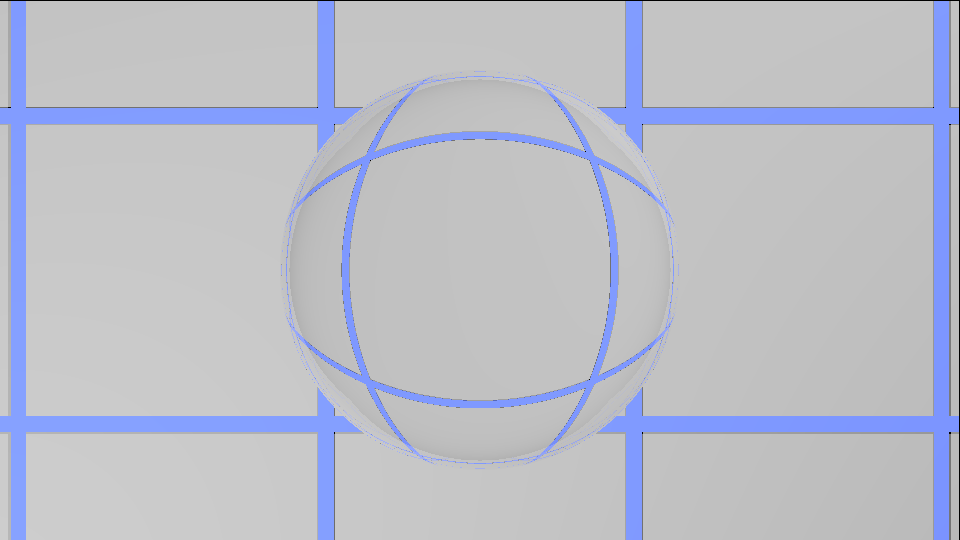
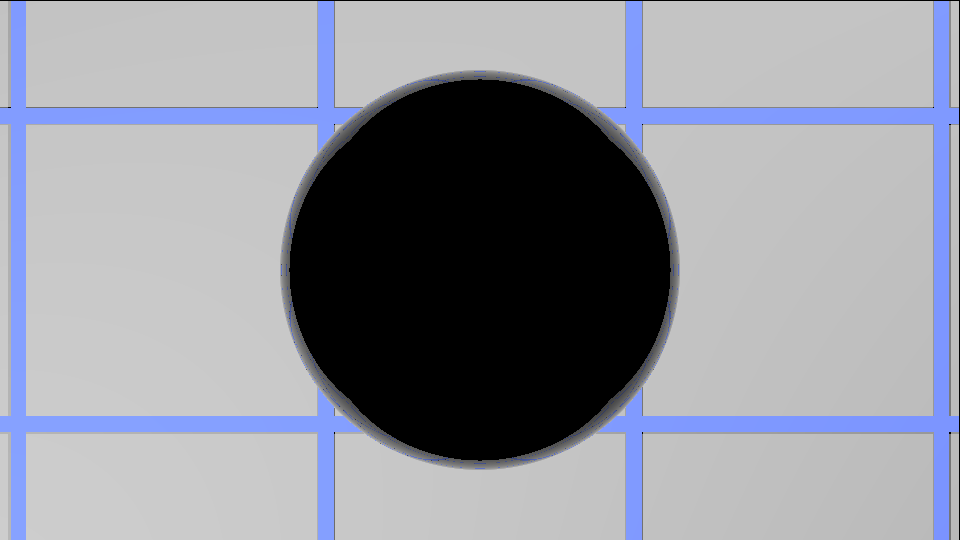
Added fixed cylinder/sphere code

Changed region(s): [[0.2812, 0.1185, 0.7188, 0.8889]]

diff --git a/ray/surface/Cylinder.java b/ray/surface/Cylinder.java
@@ -33,81 +33,81 @@ public class Cylinder extends Surface {
 	 * @return true if the surface intersects the ray
 	 */
 	public boolean intersect(IntersectionRecord outRecord, Ray rayIn) {
-        boolean inters = false;
-        double tw = Double.POSITIVE_INFINITY; // t value for intersection with cylinder wall
-        double te = Double.POSITIVE_INFINITY; // t value for intersection with end caps
-        Point3 q = new Point3(); // intersection point
+		 boolean inters = false;
+	        double tw = Double.POSITIVE_INFINITY; // t value for intersection with cylinder wall
+	        double te = Double.POSITIVE_INFINITY; // t value for intersection with end caps
+	        Point3 q = new Point3(); // intersection point
 
-        // compute ray-cylinder intersection
-        // same as for sphere, except, set all z components to 0
-        Vector3 d = new Vector3(rayIn.direction);
-        Vector3 ec = new Vector3();
-        ec.sub(rayIn.origin, center); // e-c
+	        // compute ray-cylinder intersection
+	        // same as for sphere, except, set all z components to 0
+	        Vector3 d = new Vector3(rayIn.direction);
+	        Vector3 ec = new Vector3();
+	        ec.sub(rayIn.origin, center); // e-c
 
-        // before setting the z components to 0, save for later
-        double dz = d.z;
-        double ecz = ec.z;
-        d.z = 0;
-        ec.z = 0;
+	        // before setting the z components to 0, save for later
+	        double dz = d.z;
+	        double ecz = ec.z;
+	        d.z = 0;
+	        ec.z = 0;
 
-        // the parameters of the quadratic equation A*t^2 + B*t + C = 0:
-        double A = d.dot(d);
-        double B = 2 * d.dot(ec);
-        double C = ec.dot(ec) - radius * radius;
+	        // the parameters of the quadratic equation A*t^2 + B*t + C = 0:
+	        double A = d.dot(d);
+	        double B = 2 * d.dot(ec);
+	        double C = ec.dot(ec) - radius * radius;
 
-        double discr = B*B - 4*A*C;
-        if (discr >= 0.0) { // intersection with cylinder wall
-            double s = Math.sqrt(discr);
-            double t1 = (-B + s) / (2 * A);
-            double t2 = (-B - s) / (2 * A);
-            double t = Double.POSITIVE_INFINITY;
-            if (t1 >= rayIn.start && t1 < t)
-                t = t1;
-            if (t2 >= rayIn.start && t2 < t)
-                t = t2;
-            if (t >= rayIn.start &&  t <= rayIn.end && t < Double.POSITIVE_INFINITY) {
-                rayIn.evaluate(q, t); // intersection point
-                if (Math.abs(q.z - center.z) <= height/2) {  // sidewall of cylinder
-                    inters = true;
-                    tw = t;
-                }
-            }
-        }
+	        double discr = B*B - 4*A*C;
+	        if (discr >= 0.0) { // intersection with cylinder wall
+	            double s = Math.sqrt(discr);
+	            double t1 = (-B + s) / (2 * A);
+	            double t2 = (-B - s) / (2 * A);
+	            double t = Double.POSITIVE_INFINITY;
+	            if (t1 >= rayIn.start && t1 < t)
+	                t = t1;
+	            if (t2 >= rayIn.start && t2 < t)
+	                t = t2;
+	            if (t >= rayIn.start &&  t <= rayIn.end && t < Double.POSITIVE_INFINITY) {
+	                rayIn.evaluate(q, t); // intersection point
+	                if (Math.abs(q.z - center.z) <= height/2) {  // sidewall of cylinder
+	                    inters = true;
+	                    tw = t;
+	                }
+	            }
+	        }
 
-        // check intersection with endcaps
+	        // check intersection with endcaps
 
-        // e.z + t * d.z == center.z +/- height/2;
-        // t = (center.z - e.z +/- height/2) / d.z;
-        double te1 = (-ecz - height/2) / dz;
-        double te2 = (-ecz + height/2) / dz;
-        double tem = Math.min(te1, te2);
-        double dir = (te1 < te2) ? -1.0 : 1.0; // whether top or bottom end
-        rayIn.evaluate(q, tem);  // intersection location with endcap
-        Vector3 rad = new Vector3();
-        rad.sub(center, q); // compute radius vector
-        rad.z = 0;          // in x-y plane
-        if (rad.dot(rad) <= radius*radius) { // intersection with end cap
-            if (tem >= rayIn.start &&  tem <= rayIn.end) {
-                inters = true;
-                te = tem;
-            }
-        }
+	        // e.z + t * d.z == center.z +/- height/2;
+	        // t = (center.z - e.z +/- height/2) / d.z;
+	        double te1 = (-ecz - height/2) / dz;
+	        double te2 = (-ecz + height/2) / dz;
+	        double tem = Math.min(te1, te2);
+	        double dir = (te1 < te2) ? -1.0 : 1.0; // whether top or bottom end
+	        rayIn.evaluate(q, tem);  // intersection location with endcap
+	        Vector3 rad = new Vector3();
+	        rad.sub(center, q); // compute radius vector
+	        rad.z = 0;          // in x-y plane
+	        if (rad.dot(rad) <= radius*radius) { // intersection with end cap
+	            if (tem >= rayIn.start &&  tem <= rayIn.end) {
+	                inters = true;
+	                te = tem;
+	            }
+	        }
 
-        if (inters) {
-            double t = Math.min(tw, te);
-            outRecord.t = t;
-            rayIn.evaluate(q, t);
-            outRecord.location.set(q);
-            outRecord.surface = this;
-            if (tw < te) { // intersection with wall
-                outRecord.normal.sub(q, center);
-                outRecord.normal.z = 0; // set z component of normal to 0
-                outRecord.normal.normalize();
-            } else { // intersection with endcap
-                outRecord.normal.set(0, 0, dir);
-            }
-            return true;
-        }
+	        if (inters) {
+	            double t = Math.min(tw, te);
+	            outRecord.t = t;
+	            rayIn.evaluate(q, t);
+	            outRecord.location.set(q);
+	            outRecord.surface = this;
+	            if (tw < te) { // intersection with wall
+	                outRecord.normal.sub(q, center);
+	                outRecord.normal.z = 0; // set z component of normal to 0
+	                outRecord.normal.normalize();
+	            } else { // intersection with endcap
+	                outRecord.normal.set(0, 0, dir);
+	            }
+	            return true;
+	        }
         
 
         return false;

diff --git a/ray/shader/Glass.java b/ray/shader/Glass.java
@@ -34,7 +34,6 @@ public class Glass extends Shader {
                       IntersectionRecord record, int depth, double contribution, boolean internal) {
 
         	// Calculate Reflection Ray
-    		// r = -toEye - 2(-toEye.dot(n))*n;
 			toEye.normalize();
             Vector3 l = new Vector3(toEye);
             l.scale(-1);
@@ -56,6 +55,7 @@ public class Glass extends Shader {
             Vector3 term2 = new Vector3();
             double n;
             double nt;
+            
             if(internal==false) {
 	            n = 1.0;
 	            nt = refractiveIndex;
@@ -64,10 +64,12 @@ public class Glass extends Shader {
                 nor.scale(-1);
                 n = refractiveIndex;
             }
+            
             dir.scale(-1);
             
             term1.set(nor);
-            term1.scale(-1*nor.dot(dir));
+            term1.scale(nor.dot(dir));
+            term1.scale(-1);
             term1.add(dir);
             term1.scale(n/nt);
             
@@ -81,7 +83,7 @@ public class Glass extends Shader {
             tRay.start = Ray.EPSILON;
             tRay.end = Double.POSITIVE_INFINITY;
            
-	    	if(depth<=MAXDEPTH&&contribution>=MINCONTRIBUTION) {
+	    	if(depth<=MAXDEPTH && contribution>=MINCONTRIBUTION) {
 
 				// Implement Fresnel equation (Shirley 13.1)
 				// Scale the vector L by -1 to get R that points away from the surface as the normal does.
@@ -94,22 +96,26 @@ public class Glass extends Shader {
 					return;
 				
 				double reflection = r0 + (1-r0)*Math.pow((1-cosTheta),5);
-				//System.out.println(reflection);
 
 				Color reflectionColor = new Color(0,0,0);
 				Color internalColor = new Color(0,0,0);
+				Color totalColor = new Color(0,0,0);
 				
 				// compute reflected contribution (make a recursive call to shadeRay)
 		    	depth++;
+		    	
 				RayTracer.shadeRay(reflectionColor, scene, reflectionRay, lights, depth, contribution, internal);
+				reflectionColor.scale(reflection);
+				
 				if(coefficientSquared>=0) {
 					RayTracer.shadeRay(internalColor, scene, tRay, lights, depth, contribution, !internal);
+					internalColor.scale(1-reflection);
 				}
 				
-				reflectionColor.scale(reflection);
-				internalColor.scale(1-reflection);
-				reflectionColor.add(internalColor);
-				outColor.set(reflectionColor);
+				totalColor.add(reflectionColor);
+				totalColor.add(internalColor);
+				
+				outColor.set(totalColor);
 	    	}
 	    	
     }

diff --git a/ray/surface/Sphere.java b/ray/surface/Sphere.java
@@ -33,7 +33,7 @@ public class Sphere extends Surface {
 	 * @return true if the surface intersects the ray
 	 */
 	public boolean intersect(IntersectionRecord outRecord, Ray rayIn) {
-        //compute ray-sphere intersection (see book p. 77)
+		 //compute ray-sphere intersection (see book p. 77)
         Vector3 d = rayIn.direction;
         Vector3 ec = new Vector3();
         ec.sub(rayIn.origin, center); // e-c
@@ -48,9 +48,13 @@ public class Sphere extends Surface {
             double s = Math.sqrt(discr);
             double t1 = (-B + s) / (2 * A);
             double t2 = (-B - s) / (2 * A);
-            double t = Math.min(t1,  t2);
-                        
-            if (t < rayIn.start || t > rayIn.end)
+            double t = Double.POSITIVE_INFINITY;
+
+            if (t1 >= rayIn.start && t1 < t)
+                t = t1;
+            if (t2 >= rayIn.start && t2 < t)
+                t = t2;
+            if (t > rayIn.end || t == Double.POSITIVE_INFINITY)
                 return false;
                         
             Point3 p = new Point3(); // intersection point
